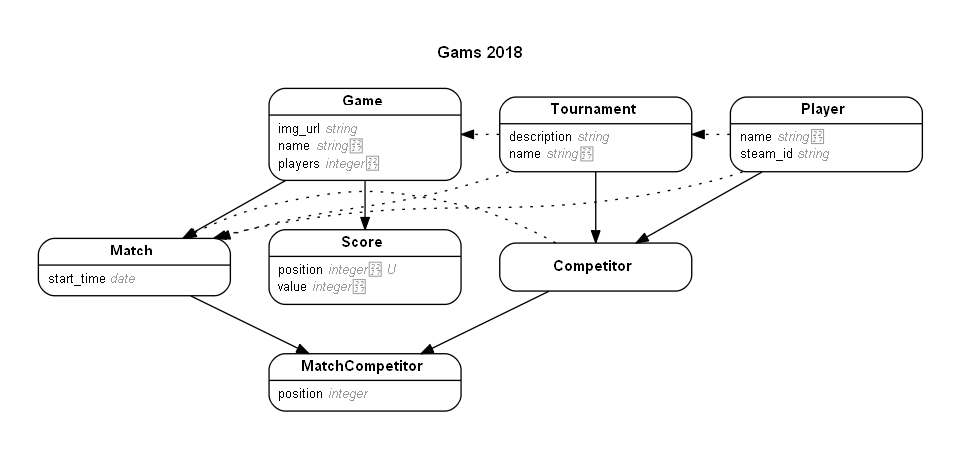
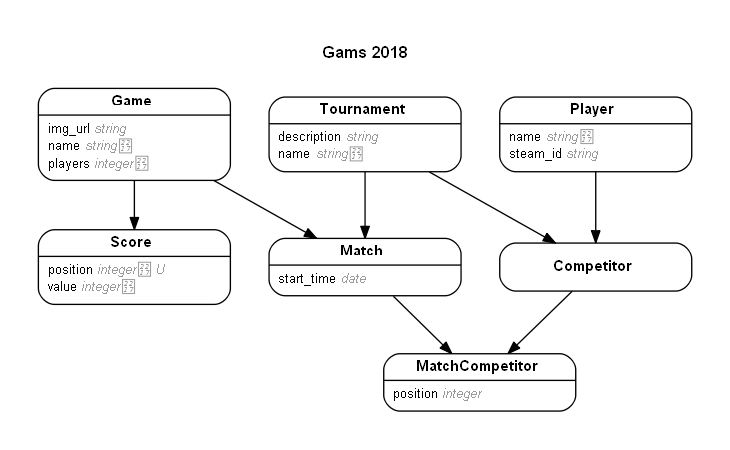
Simplify relationship between matches and tournaments

diff --git a/db/schema.rb b/db/schema.rb
@@ -10,7 +10,7 @@
 #
 # It's strongly recommended that you check this file into your version control system.
 
-ActiveRecord::Schema.define(version: 20180224181650) do
+ActiveRecord::Schema.define(version: 20180225204953) do
 
   create_table "competitors", force: :cascade do |t|
     t.integer "player_id"
@@ -40,6 +40,8 @@ ActiveRecord::Schema.define(version: 20180224181650) do
     t.date "start_time"
     t.datetime "created_at", null: false
     t.datetime "updated_at", null: false
+    t.integer "tournament_id"
+    t.date "end_time"
   end
 
   create_table "players", force: :cascade do |t|

diff --git a/db/seeds/2018.rb b/db/seeds/2018.rb
@@ -31,7 +31,13 @@ def create_matches(tournament, schedule, start, game_duration, games)
     start_time = start + (idx * game_duration)
     event.each_with_index do |players, idx|
       competitors = gather_competitors(tournament, players)
-      Match.create(game: games[idx], competitors: competitors, start_time: start_time)
+      Match.create(
+        game: games[idx],
+        tournament: tournament,
+        competitors: competitors,
+        start_time: start_time,
+        end_time: start_time + game_duration
+      )
     end
   end
 end

diff --git a/app/models/tournament.rb b/app/models/tournament.rb
@@ -1,7 +1,7 @@
 class Tournament < ApplicationRecord
   has_many :competitors
+  has_many :matches
   has_many :players, -> { distinct }, through: :competitors
-  has_many :matches, -> { distinct }, through: :competitors
   has_many :games, -> { distinct }, through: :matches
 
   validates :name, presence: true

diff --git a/app/controllers/matches_controller.rb b/app/controllers/matches_controller.rb
@@ -9,9 +9,9 @@ class MatchesController < ApplicationController
   def show
   end
 
-  # TODO: Need to include player list in body for create
   def create
     @match = Match.new(match_params)
+    @match.tournament = @tournament
 
     if @match.save
       render :show, status: :created, location: @match

diff --git a/app/models/match.rb b/app/models/match.rb
@@ -2,6 +2,7 @@ class Match < ApplicationRecord
   has_many :match_competitors
   has_many :competitors, through: :match_competitors
   belongs_to :game
+  belongs_to :tournament
 
   def players
     competitors.collect(&:player)

diff --git a/db/migrate/20180225204707_add_tournament_id_to_match.rb b/db/migrate/20180225204707_add_tournament_id_to_match.rb
@@ -1,0 +1,5 @@
+class AddTournamentIdToMatch < ActiveRecord::Migration[5.1]
+  def change
+    add_column :matches, :tournament_id, :integer
+  end
+end

diff --git a/db/migrate/20180225204953_add_end_time_to_matches.rb b/db/migrate/20180225204953_add_end_time_to_matches.rb
@@ -1,0 +1,5 @@
+class AddEndTimeToMatches < ActiveRecord::Migration[5.1]
+  def change
+    add_column :matches, :end_time, :date
+  end
+end
